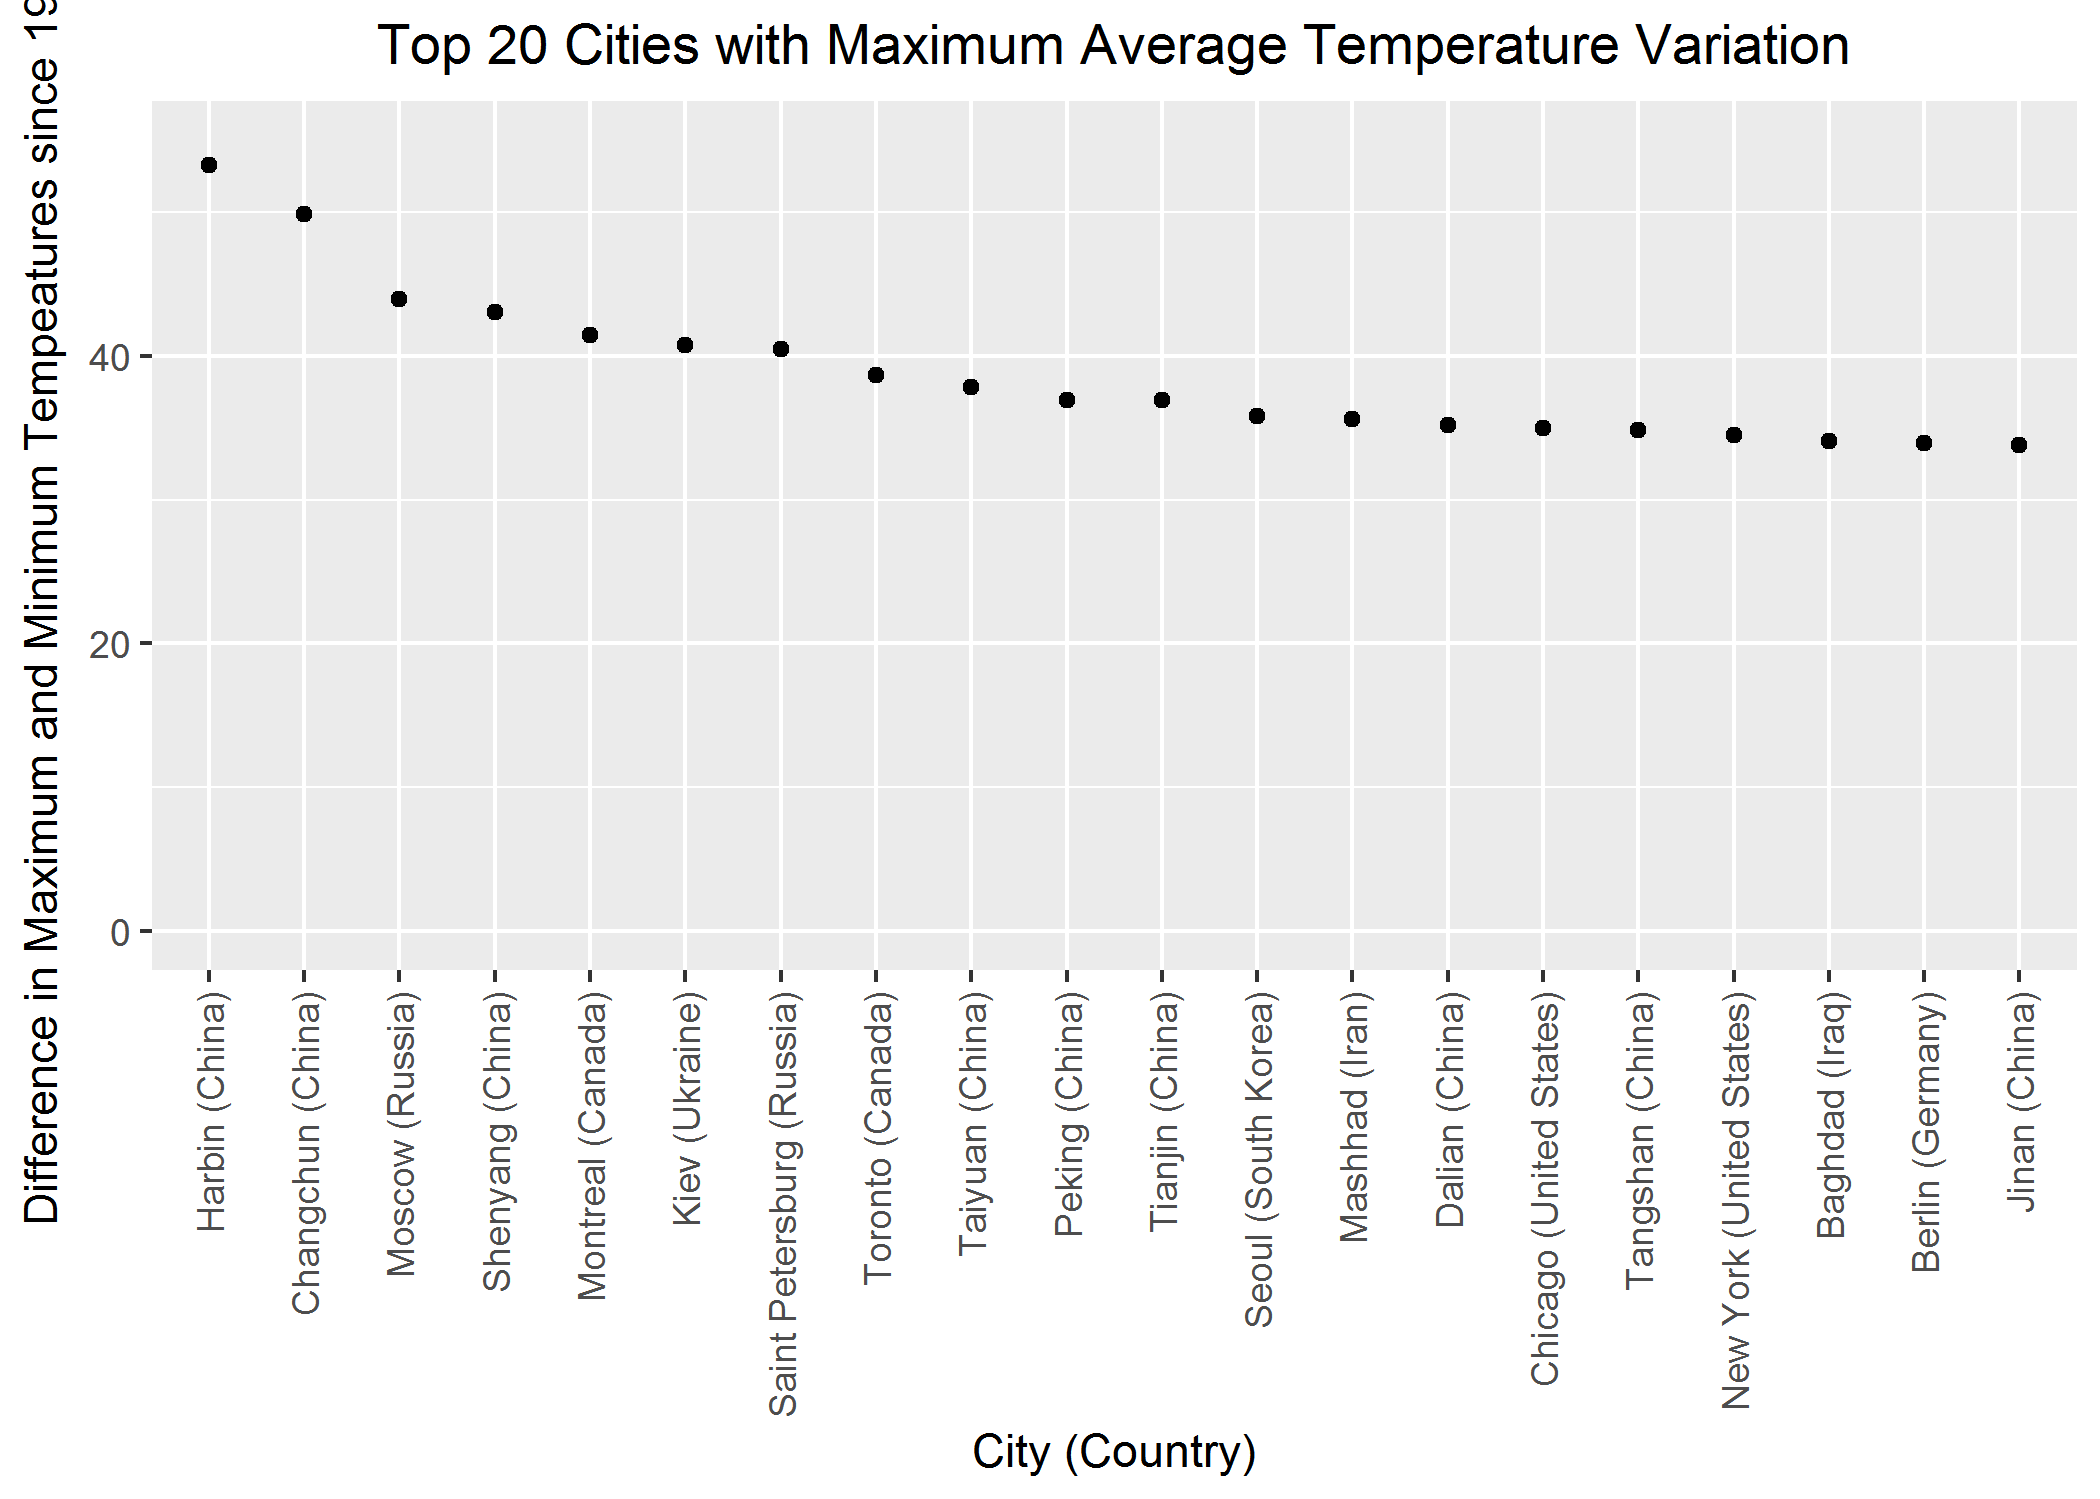
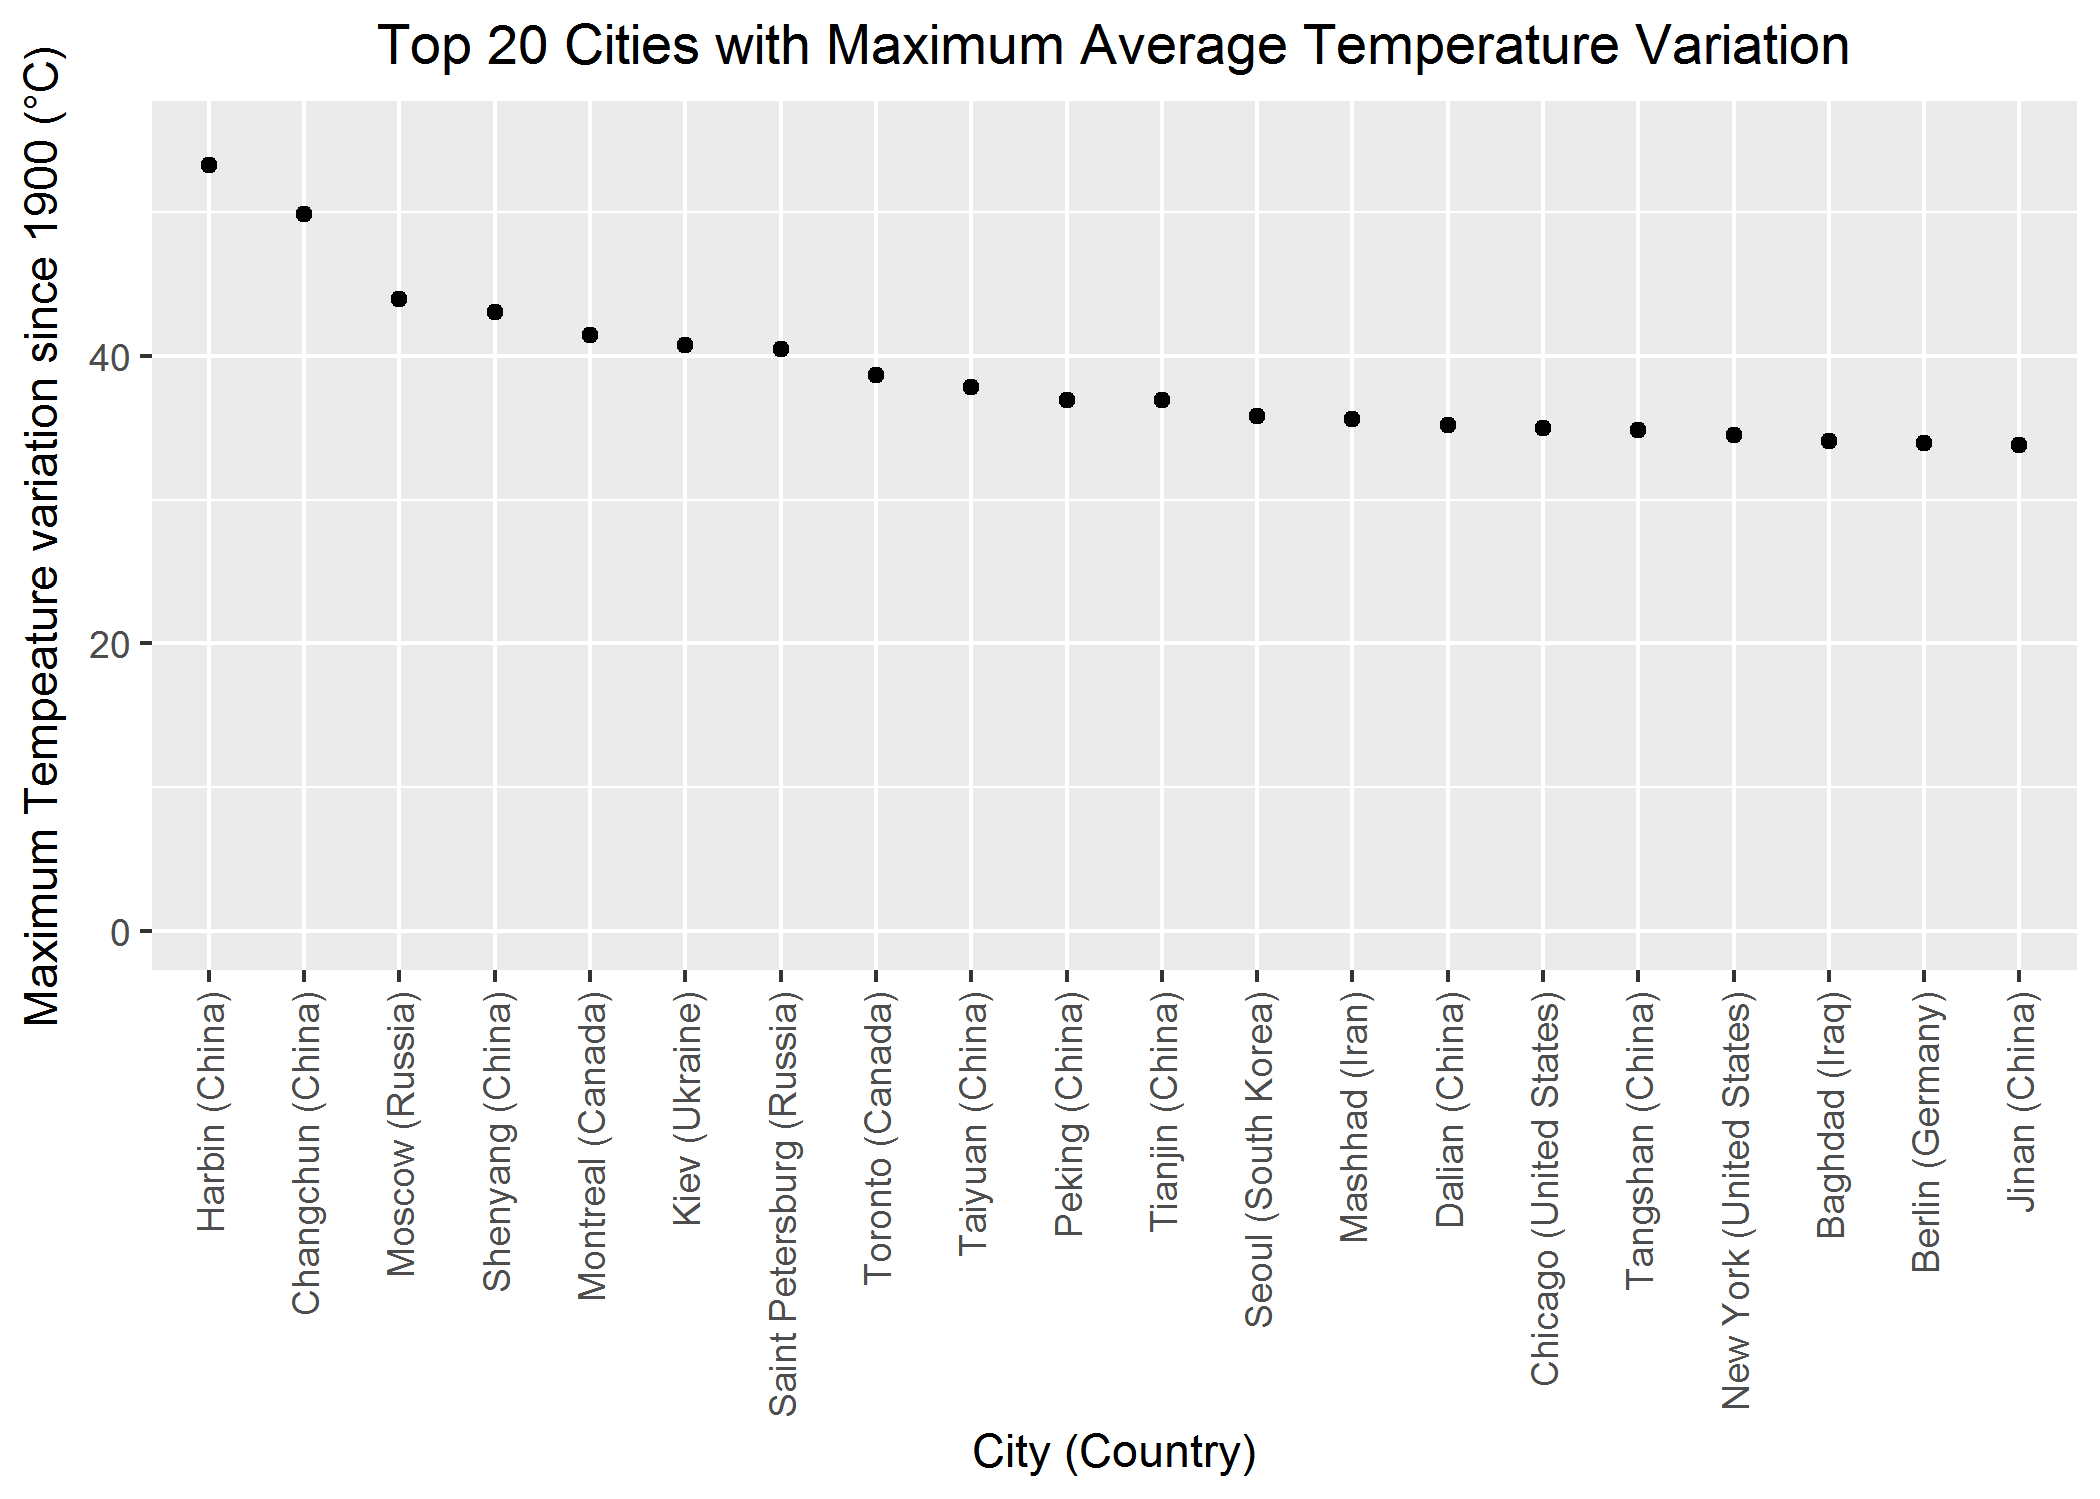
markdown files update

Changed region(s): [[0.0, 0.0, 0.031, 0.8286]]

diff --git a/report_temp.md b/report_temp.md
@@ -1,7 +1,5 @@
 <b>Introduction</b> <br>
 <p>
-THe average monthly temperature variation of a country There are 2 datasets namely Temp.csv and CityTemp.csv, first one having average monthly temperature of the various countries around the world and the second contains the average monthly treperatures of various cities around the world.
-
 </p>
 <br> <br>
 
@@ -130,7 +128,7 @@ ggsave(filename = "graphs/Maximum Temp Variation.png", device="png", plot=q)
 # Display the plot in the markdown file
 ```
 
-![](graphs//Maximum%20Temp%20Variation.png) Based on the above result, it can be said that top 20 courtries based on the Maximum variation in monthly average temperature are having the variation in the range of 35 to 50. <br> <br> <b>Question 2: Select a subset of data called “UStemp” where US land temperatures from 01/01/1990 in Temp data. Use UStemp dataset to answer the followings.(2.a, 2.b and 2.c)</b>
+![](graphs/Maximum%20Temp%20Variation.png) Based on the above result, it can be said that top 20 courtries based on the Maximum variation in monthly average temperature are having the variation in the range of 35 to 50. <br> <br> <b>Question 2: Select a subset of data called “UStemp” where US land temperatures from 01/01/1990 in Temp data. Use UStemp dataset to answer the followings.(2.a, 2.b and 2.c)</b>
 
 ``` r
 # Creation of "UStemp” - US land temperatures data from 01/01/1990
@@ -282,7 +280,7 @@ top_20_city_temp_diff_since_1900
 ``` r
 # To avoid the automatic alphabetic ordering of the data while plotting the City, explicitly specify the order of the data and then plot the graph.
 top_20_city_temp_diff_since_1900$City <- factor(top_20_city_temp_diff_since_1900$City,levels=top_20_city_temp_diff_since_1900$City[order(desc(top_20_city_temp_diff_since_1900$max_and_min_Temp_difference_since_1900))])
-q <- qplot(x=top_20_city_temp_diff_since_1900$City,y=top_20_city_temp_diff_since_1900$max_and_min_Temp_difference_since_1900, xlab="City (Country)", ylab="Difference in Maximum and Minimum Tempeatures since 1900 (°C)", main="Top 20 Cities with Maximum Average Temperature Variation", ylim = c(0,55)) + theme(axis.text.x = element_text(angle = 90,hjust=1, vjust=0.5),plot.title = element_text(hjust = 0.5))
+q <- qplot(x=top_20_city_temp_diff_since_1900$City,y=top_20_city_temp_diff_since_1900$max_and_min_Temp_difference_since_1900, xlab="City (Country)", ylab="Maximum Tempeature variation since 1900 (°C)", main="Top 20 Cities with Maximum Average Temperature Variation", ylim = c(0,55)) + theme(axis.text.x = element_text(angle = 90,hjust=1, vjust=0.5),plot.title = element_text(hjust = 0.5))
 # Save the plot
 ggsave(filename = "graphs/Maximum Temp Variation-City.png", device="png", plot=q)
 ```
@@ -297,7 +295,4 @@ ggsave(filename = "graphs/Maximum Temp Variation-City.png", device="png", plot=q
 
 <br> <br> <b>Conclusion</b> <br>
 <p>
-In this study, we have tried to examine the relationship between the trunk circumference of the Orange tree with its age. The study incorporates visual tools to examine this relationship.
-
-The conclusion drawn from the visual inspection of the data is as below: - During the initial days of the tree, the groth rate is high but as the days pass, the growth rate of the tree decreases and reach to almost zero by the time its fully grown. All the 5 Orange trees shows the similar behaviour. Aroung tree age of 1400 days, the growth rate reaches the almost zero point. So it can be said that the Orange tree is fully grown within a period of around 1400 days.
 </p>

diff --git a/report_orange.md b/report_orange.md
@@ -92,7 +92,7 @@ ggsave(filename = "graphs/Scatter plot of circumference vs age.png", device="png
 # Display the plot in the markdown file
 ```
 
-![](graphs/Scatter%20plot%20of%20circumference%20vs%20age.png) <br> Looking at the graph, it can be said that for all the trees, the circumference was increasing during the initial days but after around 1400 days, the rate of increase in circumference dropped significantly to almost zero suggesting the Orange tree is fully grown by around 1400 days of age.
+![](graphs/%22Scatter%20plot%20of%20circumference%20vs%20age.png%22) <br> Looking at the graph, it can be said that for all the trees, the circumference was increasing during the initial days but after around 1400 days, the rate of increase in circumference dropped significantly to almost zero suggesting the Orange tree is fully grown by around 1400 days of age.
 <br> <br> <b>Question 3: Display the trunk circumferences on a comparative boxplot against tree. Be sure you order the boxplots in the increasing order of maximum diameter.</b>
 
 ``` r
@@ -109,7 +109,7 @@ ggsave(filename = "graphs/Boxplot of circumference by tree.png", device="png", p
 # Display the plot in the markdown file
 ```
 
-![](graphs/Boxplot%20of%20circumference%20by%20tree.png) <br> Boxplot analysis shows that since the median of the circumference is not in the center but is closed towards the top with lower hinge of larger length then the upper hinge suggesting that the circumference on the orange tree increases which a large rate during the initial days but with time, the growth rate of the tree decreases. <br> <br> <b>Conclusion</b> <br>
+![](graphs/%22Boxplot%20of%20circumference%20by%20tree.png%22) <br> Boxplot analysis shows that since the median of the circumference is not in the center but is closed towards the top with lower hinge of larger length then the upper hinge suggesting that the circumference on the orange tree increases which a large rate during the initial days but with time, the growth rate of the tree decreases. <br> <br> <b>Conclusion</b> <br>
 <p>
 In this study, we have tried to examine the relationship between the trunk circumference of the Orange tree with its age. The study incorporates visual tools to examine this relationship.
 
